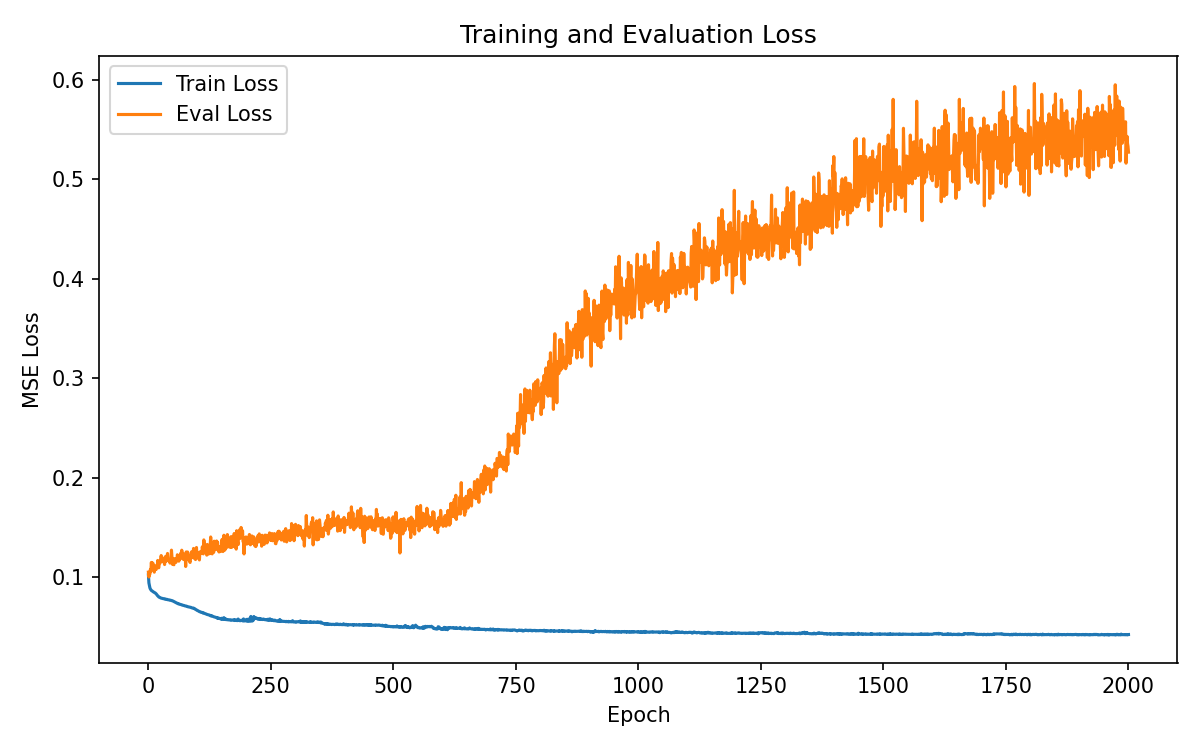
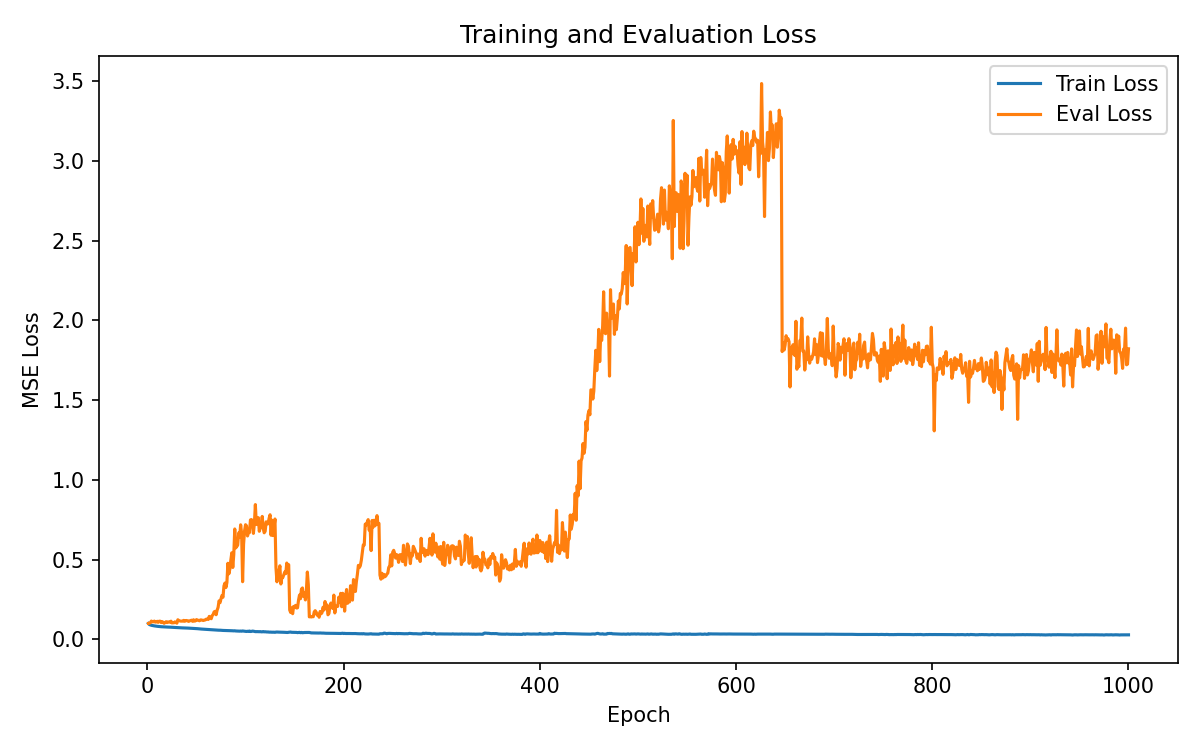
Allow both cpu and gpu training

diff --git a/train_from_readdata.py b/train_from_readdata.py
@@ -35,10 +35,13 @@ def build_training_arrays(
         .reshape(-1, 1)
         .astype(float)
     )
+
+    #x_params = x_params[0:4] # LCL HACK
     t_values = pd.to_numeric(target_df.iloc[:, 0], errors="coerce").to_numpy().astype(float)
 
     target_start_col_0based = target_start_col_1based - 1
     target_cols = list(range(target_start_col_0based, target_df.shape[1], target_step))
+    #target_cols = target_cols[0:4] # LCL HACK
     y_raw = (
         target_df.iloc[:, target_cols]
         .apply(pd.to_numeric, errors="coerce")
@@ -150,11 +153,11 @@ class TimeSeriesRegressor(nn.Module):
     def __init__(self) -> None:
         super().__init__()
         self.net = nn.Sequential(
-            nn.Linear(2, 32),
+            nn.Linear(2, 128),
             nn.ReLU(),
-            nn.Linear(32, 32),
+            nn.Linear(128, 128),
             nn.ReLU(),
-            nn.Linear(32, 1),
+            nn.Linear(128, 1),
         )
 
     def forward(self, x: torch.Tensor) -> torch.Tensor:
@@ -217,7 +220,13 @@ def train_cpu(
     lr: float = 1e-3,
     time_downsample_factor: int = 5,
 ) -> None:
-    device = torch.device("cpu")
+
+    if torch.cuda.is_available():
+        device = torch.device("cuda")
+        print(f"GPU: {torch.cuda.get_device_name(0)} is available.")
+    else:
+        device = torch.device("cpu")
+        print("No GPU available. Training will run on CPU.")
 
     x_params, y_series, t_values = build_training_arrays(
         feature_file_path=feature_file_path,
@@ -319,6 +328,6 @@ if __name__ == "__main__":
     train_cpu(
         feature_file_path="parameter_values.xlsx",
         target_file_path="summary_n_vars_1_part_1.txt",
-        epochs=2000,
+        epochs=1000,
         time_downsample_factor=5,
     )